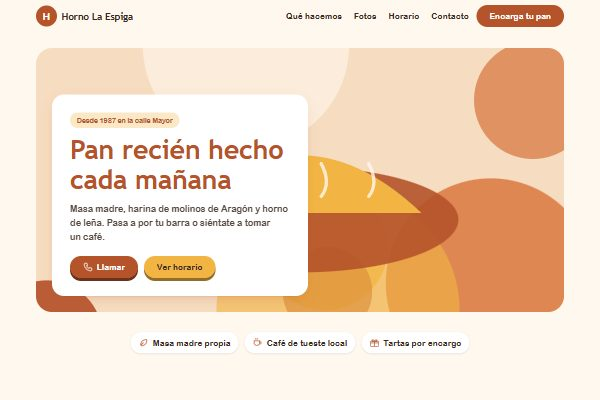
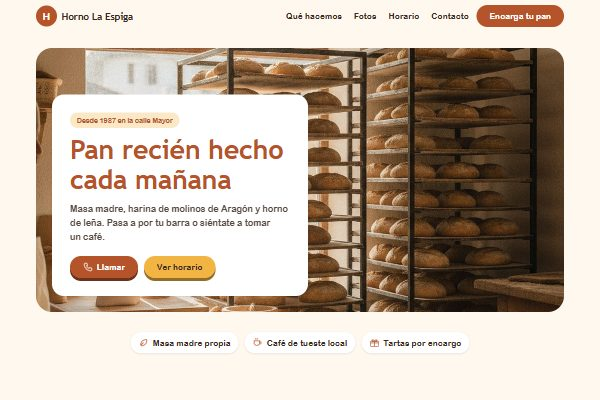
Fotos generadas con IA y previews nuevas (v1.1.0)

diff --git a/CLAUDE.md b/CLAUDE.md
@@ -41,3 +41,5 @@ Antes de dar una orden por buena: `npm run build` sin errores.
 - `hero.items`: etiquetas bajo el hero (solo `titulo` + `icono`). Sin `hero.cta` aparece «Cómo llegar».
 - `servicios.items[].imagen`: foto de cada tarjeta.
 - `horario-ubicacion.horario` [{dia, horas}] e `imagen` (plano); la dirección sale de `contacto.direccion`.
+
+Fotos de partida en public/fotos/ (generadas con IA, sin derechos de terceros); los SVG de public/placeholders/ siguen de respaldo.
